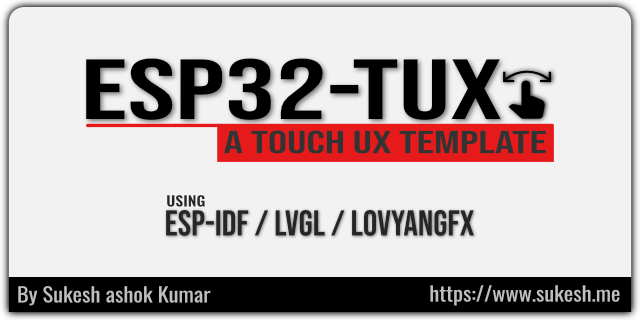
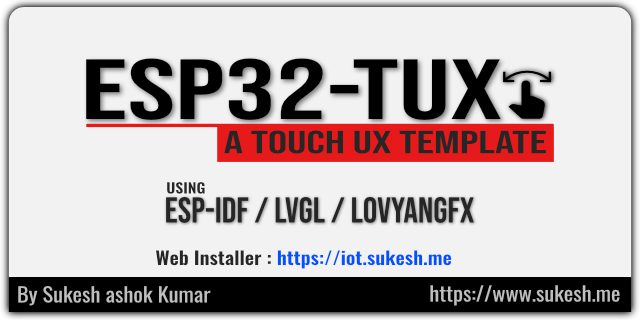
added installer and link

Changed region(s): [[0.25, 0.5625, 0.75, 0.75], [0.2188, 0.7812, 0.7188, 0.8438]]

diff --git a/main/gui.hpp b/main/gui.hpp
@@ -454,7 +454,7 @@ static void create_page_settings(lv_obj_t* parent)
     /* SETTINGS PAGE PANELS */
     panel_devinfo_island(parent);
     panel_wifi_island(parent);
-    panel_ota_island(parent);
+    // panel_ota_island(parent);
 }
 
 // Show QR Code for BLE based Wifi Provisioning

diff --git a/README.md b/README.md
@@ -1,4 +1,6 @@
 ![ESP32-TUX](assets/tux-design.png)
+## Web Installer : [https://iot.sukesh.me](https://iot.sukesh.me)
+
 ## ESP32-TUX - A Touch UX template to get you started.  
 - Currently Supported Devices : [WT32-SC01](https://www.alibaba.com/product-detail/WT32-SC01-3-5-3-5inch_1600120762835.html?spm=a2747.product_upgrade.0.0.636971d29EHKiD) / [WT32-SC01 Plus](https://www.alibaba.com/product-detail/Upgrade-WT32-SC01-plus-16MB-hmi_1600609718238.html?spm=a2756.order-detail-ta-bn-s.0.0.6f3f2fc2RYpL8H)
 - Graphics & Touch Driver : [LovyanGFX](https://github.com/lovyan03/LovyanGFX)
